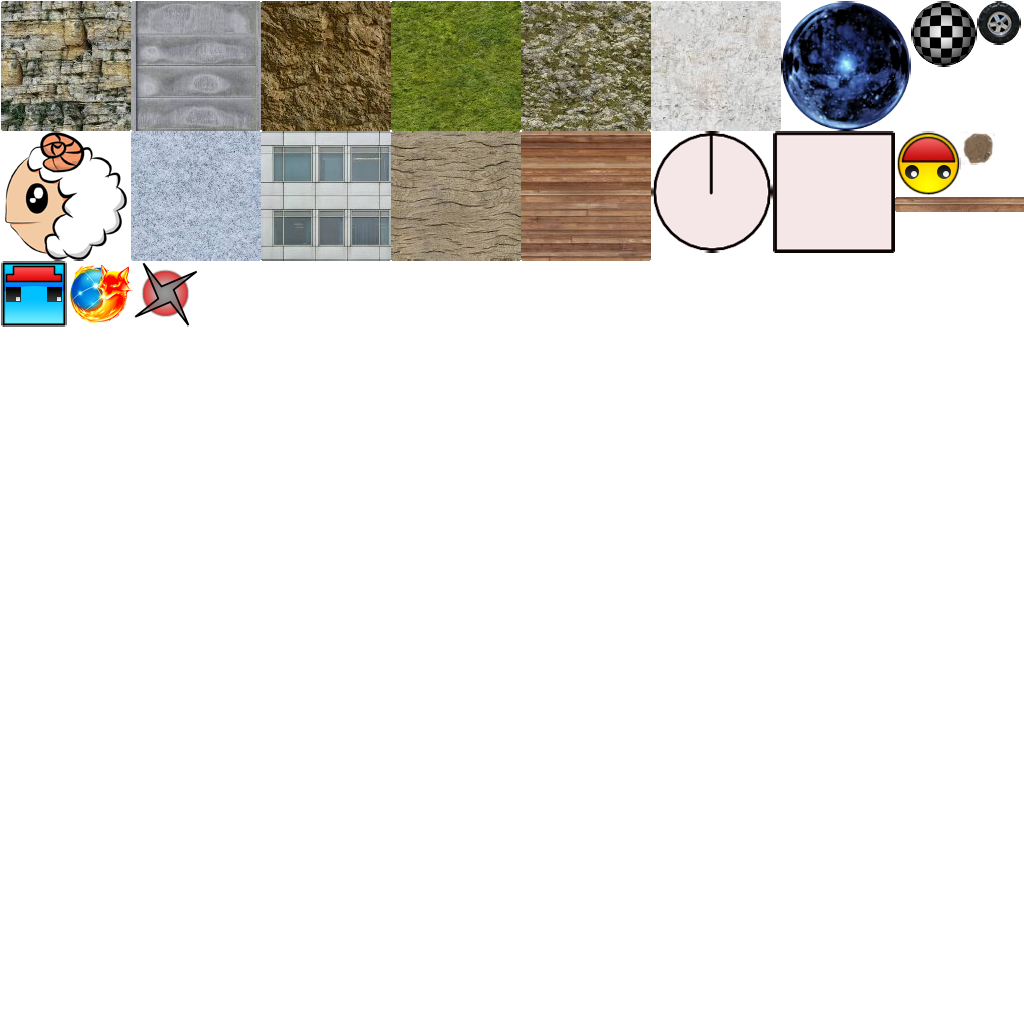
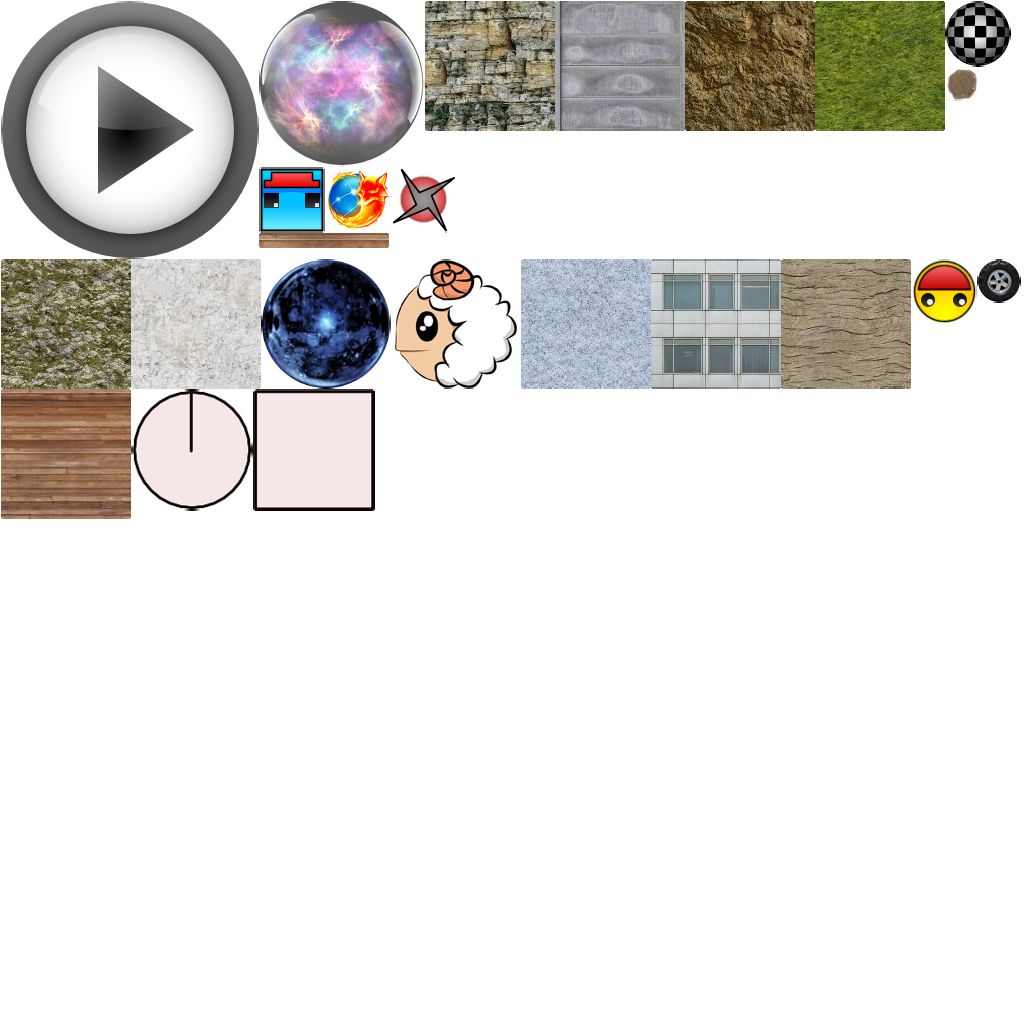
better starting condition - black hole

diff --git a/main.py b/main.py
@@ -115,8 +115,9 @@ class TestGame(Widget):
 		size = Window.size
 		for x in range(50):
 			pos = (randint(size[0] / 3, size[0]), randint(0, size[1]))
-			self.create_circle(pos, y_vel=random() * -20, texture="sheep", radius=15, selectNow=False, collision_type=1)
+			self.create_circle(pos, y_vel=random() * -20, texture="sheep", radius=15, selectNow=False)
 		self.create_box((size[0] / 2.0, 0), mass=0, width=size[0] * 2, height=10, angle=0, selectNow=False)
+		self.create_circle((size[0] / 2.0,size[1] / 2.0), y_vel=random() * -20, texture="magicball", radius=150, mass=0, selectNow=False, collision_type=1)
 
 	def _keyboard_closed(self):
 		try:
